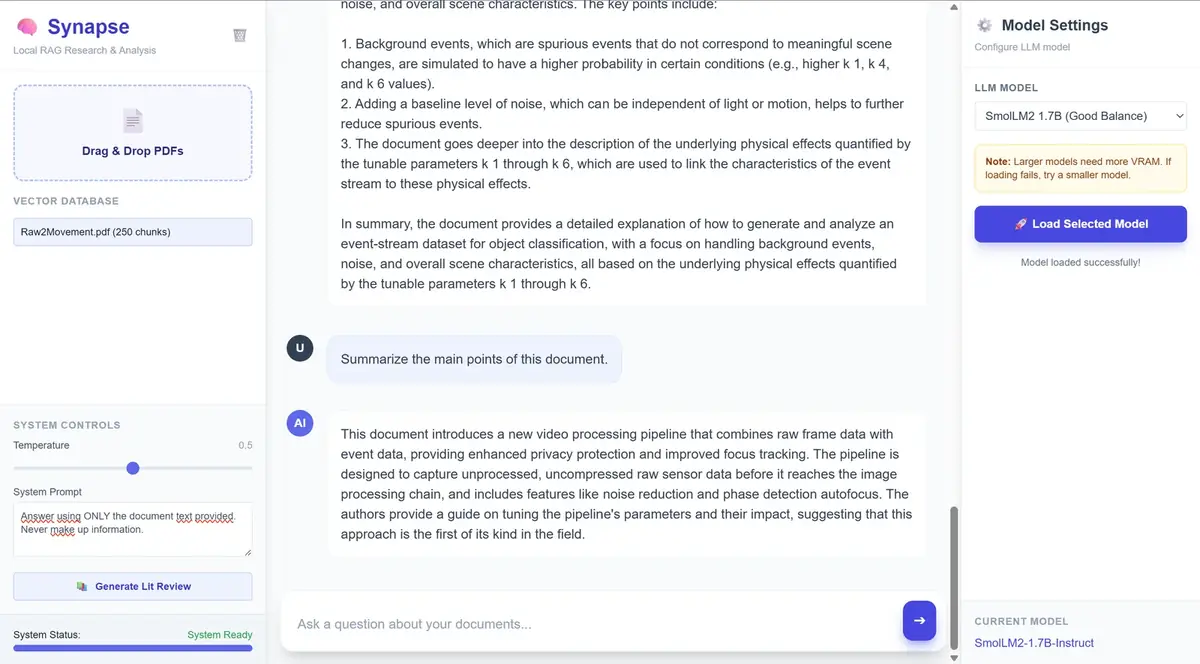
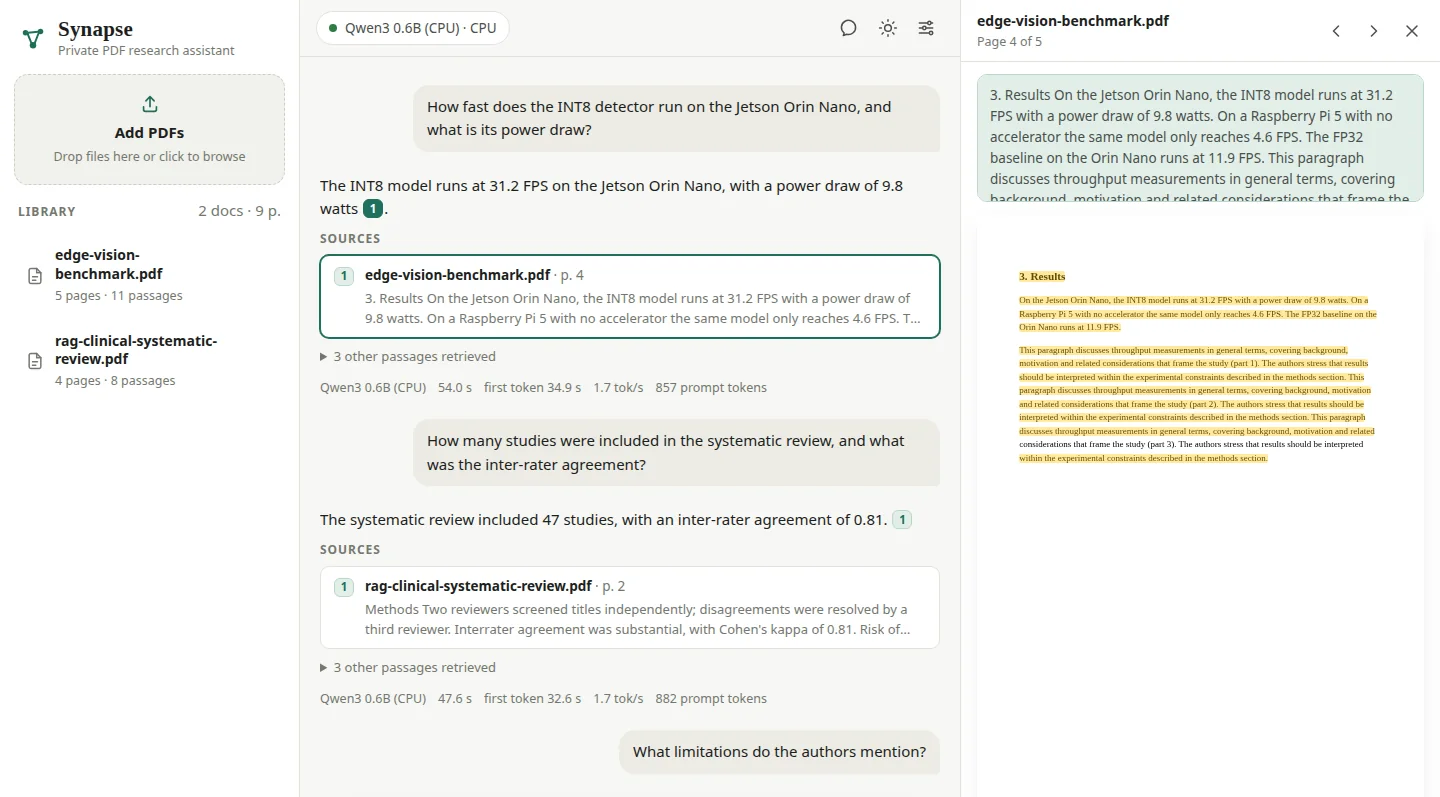
Lab: new Synapse screenshot
The Synapse card shows the new interface: answers with page-level
citations and the cited PDF page open with the passage highlighted.
Alt text updated; image URL versioned so the old one isn't served from
cache.

diff --git a/index.html b/index.html
@@ -118,9 +118,9 @@
       <span class="i-stack mono">TinyGrad · WebGPU</span>
       <span class="i-badge mono ghost">Live demo</span>
     </a></li>
-    <li><a href="#lab-rag" data-snd data-preview="assets/synapse.webp">
+    <li><a href="#lab-rag" data-snd data-preview="assets/synapse.webp?v=2">
       <span class="i-num mono">05</span>
-      <span class="i-thumb"><img src="assets/synapse.webp" alt="Synapse preview" loading="lazy"></span>
+      <span class="i-thumb"><img src="assets/synapse.webp?v=2" alt="Synapse preview" loading="lazy"></span>
       <span class="i-title">Synapse <em>browser-native RAG engine</em></span>
       <span class="i-tag mono">Lab · AI</span>
       <span class="i-stack mono">RAG · local LLM · JS</span>
@@ -487,7 +487,7 @@
       </div>
     </article>
     <article class="lab-card" id="lab-rag">
-      <div class="lab-img"><img src="assets/synapse.webp" alt="Synapse interface: local RAG chat summarising a PDF, with model settings panel" width="1600" height="886" loading="lazy"></div>
+      <div class="lab-img"><img src="assets/synapse.webp?v=2" alt="Synapse interface: answers about two PDFs with page-level citations, and the cited PDF page open with the passage highlighted" width="1600" height="886" loading="lazy"></div>
       <div class="lab-body">
         <span class="mono n">05</span>
         <h3>Synapse · Browser-native RAG</h3>
